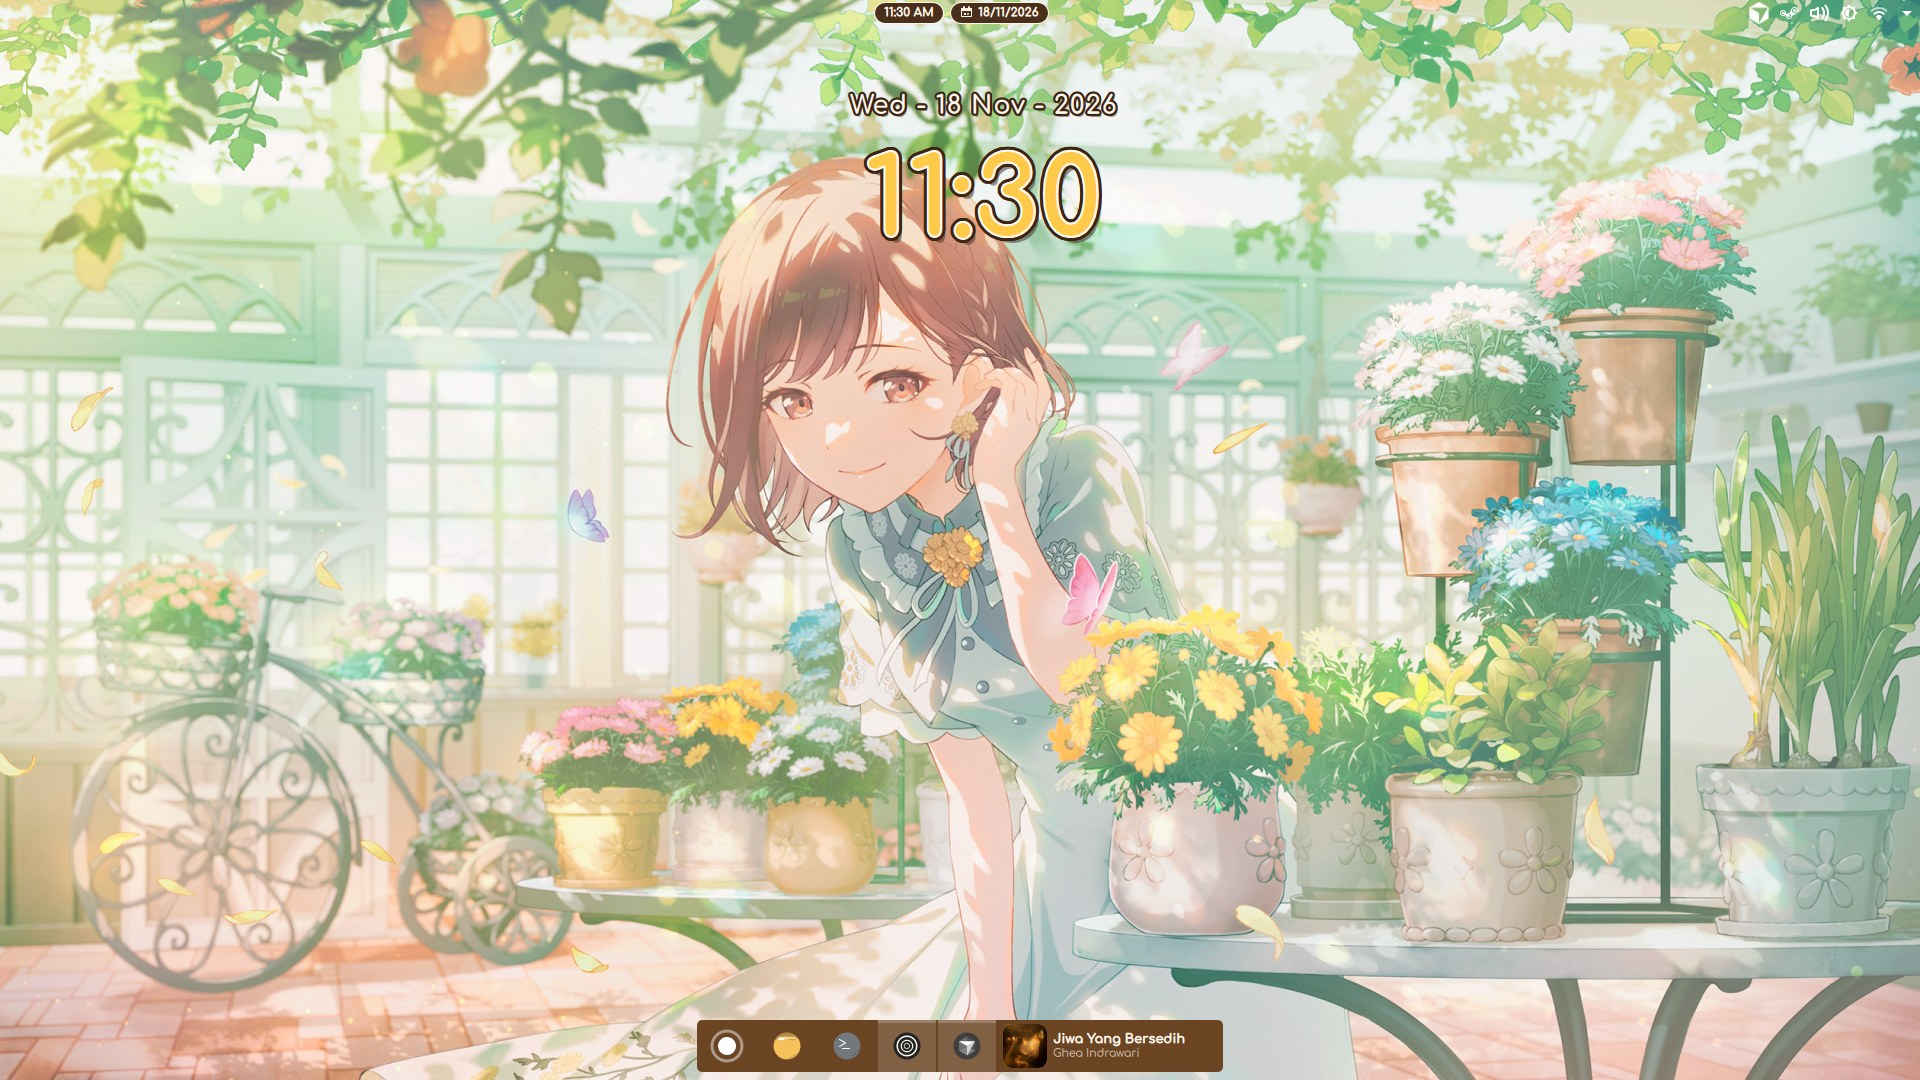
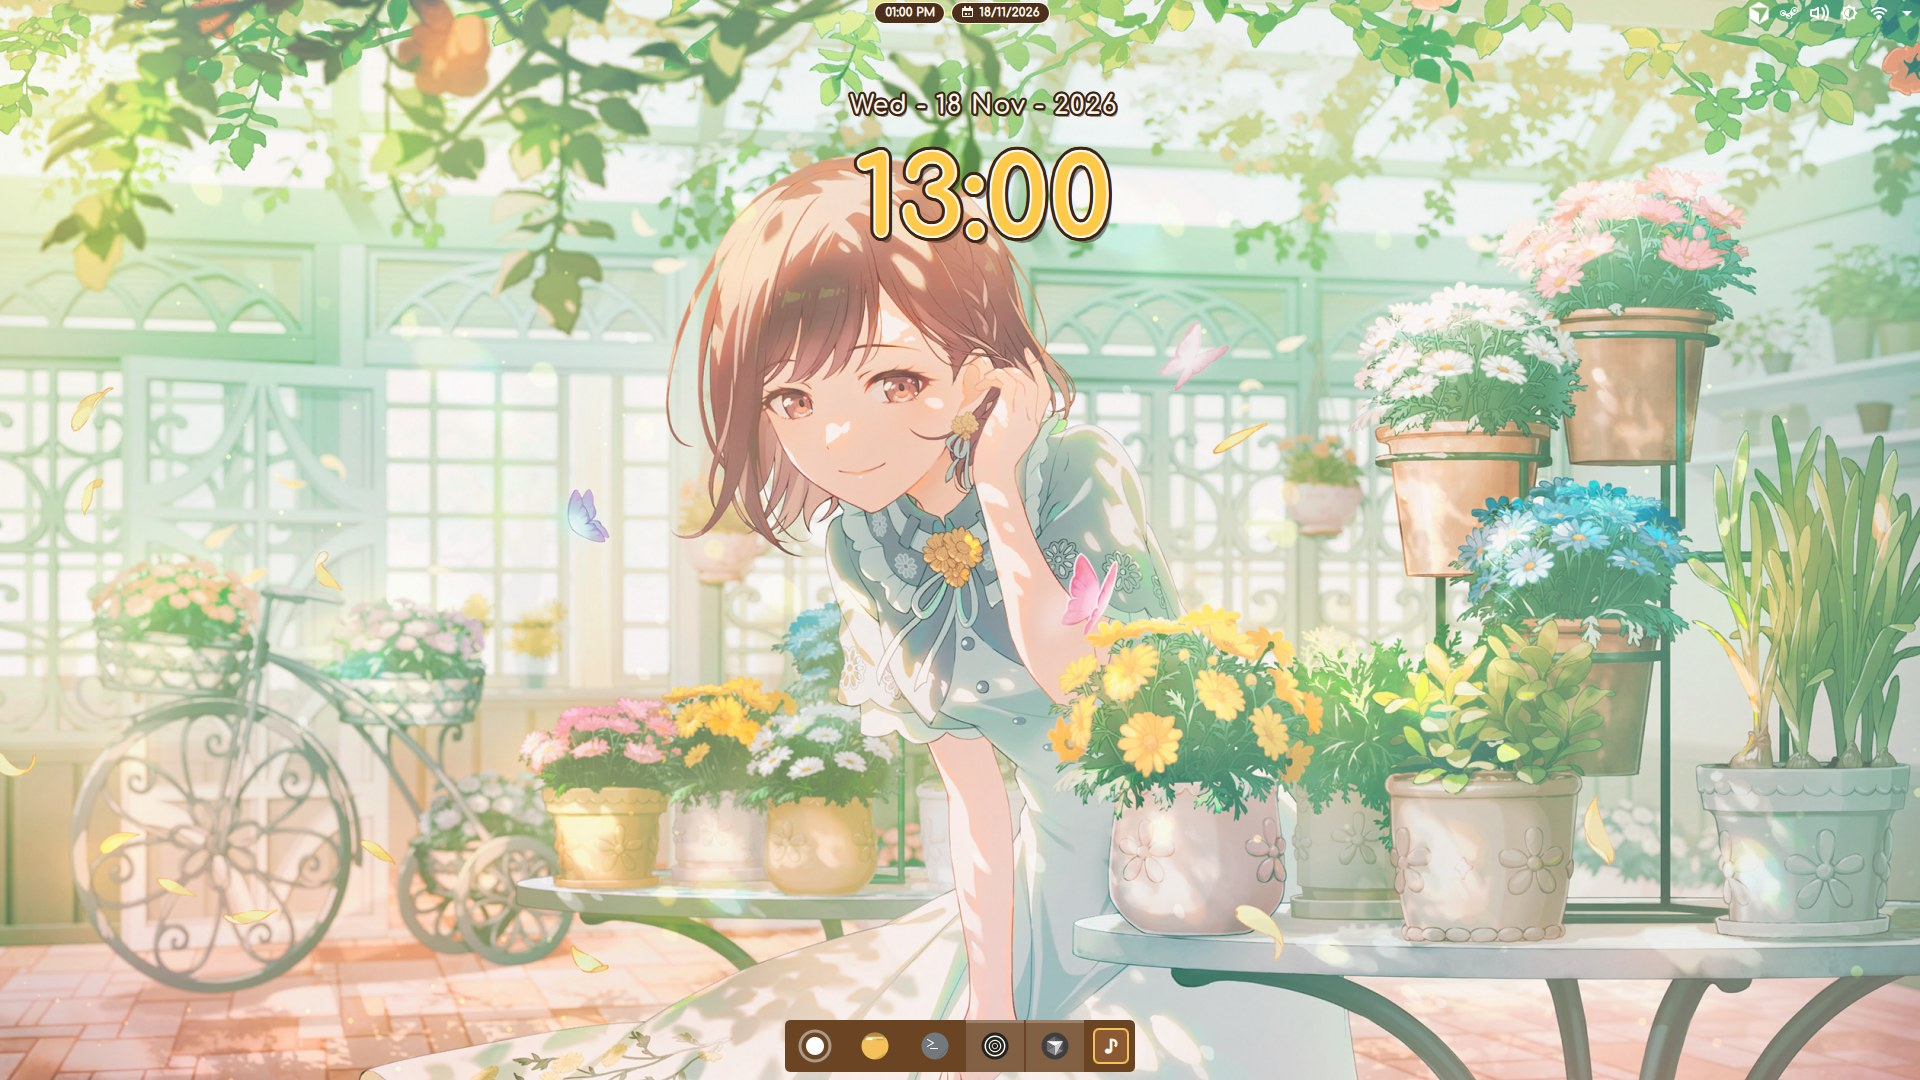
feat(cozy-ena): splash wallpaper + media dock polish
Splash loads local wallpaper copy; media art sized
with tight dock layout; apply-splash helper.

Changed region(s): [[0.4375, 0.1222, 0.5938, 0.2444], [0.3438, 0.9472, 0.6562, 1.0], [0.4688, 0.0, 0.5625, 0.0306]]

diff --git a/cozy-ena/plasmoids/org.cozyena.mediadock/contents/ui/main.qml b/cozy-ena/plasmoids/org.cozyena.mediadock/contents/ui/main.qml
@@ -40,17 +40,15 @@ PlasmoidItem {
 
     compactRepresentation: Item {
         id: compact
-        // Match ~dock icon size on 52px panel
-        readonly property int iconSize: 44
+        // Slightly under panel thickness so art doesn't kiss dock edge
+        readonly property int artPx: 36
 
         Layout.fillHeight: true
         Layout.fillWidth: false
         Layout.alignment: Qt.AlignVCenter
-        Layout.minimumWidth: root.hasTrack ? (compact.iconSize + 12 + Kirigami.Units.gridUnit * 8) : (compact.iconSize + 8)
-        Layout.preferredWidth: row.width + 8
-        Layout.maximumWidth: Kirigami.Units.gridUnit * 18
-        Layout.minimumHeight: compact.iconSize + 8
-        Layout.preferredHeight: compact.iconSize + 8
+        Layout.minimumWidth: row.implicitWidth + 6
+        Layout.preferredWidth: row.implicitWidth + 6
+        Layout.maximumWidth: row.implicitWidth + 6
 
         MouseArea {
             anchors.fill: parent
@@ -72,23 +70,21 @@ PlasmoidItem {
             }
         }
 
-        // Plain Row — Layout was squashing the art into a tall oval
         Row {
             id: row
             anchors.verticalCenter: parent.verticalCenter
             anchors.left: parent.left
-            anchors.leftMargin: 2
+            anchors.leftMargin: 4
             spacing: 6
-            height: compact.iconSize
 
-            // Rounded art with antialiased corners (no jagged edges)
             Rectangle {
                 id: badge
-                width: compact.iconSize
-                height: compact.iconSize
-                radius: 8
+                width: compact.artPx
+                height: compact.artPx
+                anchors.verticalCenter: parent.verticalCenter
+                radius: 6
                 color: root.brownSoft
-                border.width: root.isPlaying ? 2 : 1.5
+                border.width: badge.showArt ? 0 : 1.5
                 border.color: root.gold
                 readonly property bool showArt: root.hasTrack && root.artUrl.length > 0
                     && artImg.status === Image.Ready
@@ -102,7 +98,7 @@ PlasmoidItem {
                     mipmap: true
                     smooth: true
                     visible: false
-                    sourceSize: Qt.size(compact.iconSize * 2, compact.iconSize * 2)
+                    sourceSize: Qt.size(72, 72)
                 }
 
                 OpacityMask {
@@ -110,9 +106,9 @@ PlasmoidItem {
                     visible: badge.showArt
                     source: artImg
                     maskSource: Rectangle {
-                        width: compact.iconSize
-                        height: compact.iconSize
-                        radius: 8
+                        width: compact.artPx
+                        height: compact.artPx
+                        radius: 6
                         color: "#ffffff"
                         antialiasing: true
                     }
@@ -124,7 +120,7 @@ PlasmoidItem {
                     visible: !badge.showArt
                     text: "♪"
                     color: root.cream
-                    font.pixelSize: Math.round(compact.iconSize * 0.5)
+                    font.pixelSize: 18
                     font.bold: true
                 }
             }
@@ -133,25 +129,26 @@ PlasmoidItem {
                 visible: root.hasTrack
                 anchors.verticalCenter: parent.verticalCenter
                 spacing: 0
-                width: Math.min(Kirigami.Units.gridUnit * 10, 160)
 
                 PlasmaComponents3.Label {
-                    width: parent.width
+                    id: trackLabel
                     text: root.track
                     color: root.cream
                     elide: Text.ElideRight
-                    font.pixelSize: Math.max(10, Math.round(compact.iconSize * 0.30))
+                    font.pixelSize: 12
                     font.bold: true
                     maximumLineCount: 1
+                    width: Math.min(implicitWidth, 160)
                 }
                 PlasmaComponents3.Label {
-                    width: parent.width
+                    id: artistLabel
                     text: root.artist
                     color: Qt.rgba(1, 0.973, 0.925, 0.7)
                     elide: Text.ElideRight
-                    font.pixelSize: Math.max(9, Math.round(compact.iconSize * 0.24))
+                    font.pixelSize: 11
                     maximumLineCount: 1
                     visible: root.artist.length > 0
+                    width: Math.min(implicitWidth, 160)
                 }
             }
         }

diff --git a/cozy-ena/look-and-feel/org.cozyena.desktop/contents/splash/Splash.qml b/cozy-ena/look-and-feel/org.cozyena.desktop/contents/splash/Splash.qml
@@ -1,0 +1,135 @@
+/*
+    Cozy Ena splash — wallpaper from images/background.jpg (installed by apply-splash.sh)
+    SPDX-License-Identifier: GPL-2.0-or-later
+*/
+
+import QtQuick
+import org.kde.kirigami as Kirigami
+
+Rectangle {
+    id: root
+    color: "#6B4423"
+
+    property int stage
+
+    onStageChanged: {
+        if (stage == 2) {
+            introAnimation.running = true
+        } else if (stage == 5) {
+            introAnimation.target = busyIndicator
+            introAnimation.from = 1
+            introAnimation.to = 0
+            introAnimation.running = true
+        }
+    }
+
+    // Wallpaper baked into theme by apply-splash.sh (ksplash can't rely on ~/ paths)
+    Image {
+        id: wallpaper
+        anchors.fill: parent
+        asynchronous: true
+        fillMode: Image.PreserveAspectCrop
+        source: "images/background.jpg"
+        visible: status === Image.Ready
+    }
+
+    // Soft brown veil — top clear for Ena, bottom darker for chrome
+    Rectangle {
+        anchors.fill: parent
+        gradient: Gradient {
+            GradientStop { position: 0.0; color: Qt.rgba(0.42, 0.27, 0.14, wallpaper.visible ? 0.12 : 1.0) }
+            GradientStop { position: 0.55; color: Qt.rgba(0.42, 0.27, 0.14, wallpaper.visible ? 0.18 : 1.0) }
+            GradientStop { position: 1.0; color: Qt.rgba(0.35, 0.22, 0.11, wallpaper.visible ? 0.55 : 1.0) }
+        }
+    }
+
+    Item {
+        id: content
+        anchors.fill: parent
+        opacity: 0
+
+        // Bottom chrome — leave center clear for Ena
+        Column {
+            id: bottomChrome
+            anchors.horizontalCenter: parent.horizontalCenter
+            anchors.bottom: parent.bottom
+            anchors.bottomMargin: parent.height * 0.10
+            spacing: Kirigami.Units.smallSpacing
+            width: parent.width
+
+            Item {
+                id: mark
+                anchors.horizontalCenter: parent.horizontalCenter
+                width: Kirigami.Units.gridUnit * 3.5
+                height: width
+
+                Rectangle {
+                    anchors.fill: parent
+                    radius: width / 2
+                    color: Qt.rgba(1, 0.973, 0.925, 0.12)
+                    border.width: 2
+                    border.color: "#F4C15A"
+                }
+                Text {
+                    anchors.centerIn: parent
+                    text: "♪"
+                    color: "#FFF8EC"
+                    style: Text.Outline
+                    styleColor: Qt.rgba(0.42, 0.27, 0.14, 0.55)
+                    font.pixelSize: Math.round(mark.width * 0.45)
+                    font.bold: true
+                }
+            }
+
+            Text {
+                id: title
+                anchors.horizontalCenter: parent.horizontalCenter
+                text: "Cozy Ena"
+                color: "#FFF8EC"
+                style: Text.Outline
+                styleColor: Qt.rgba(0.42, 0.27, 0.14, 0.65)
+                font.pixelSize: Math.round(Kirigami.Units.gridUnit * 1.6)
+                font.bold: true
+                Accessible.name: text
+                Accessible.role: Accessible.StaticText
+                textFormat: Text.PlainText
+            }
+
+            Text {
+                anchors.horizontalCenter: parent.horizontalCenter
+                text: "welcome home"
+                color: "#F4C15A"
+                style: Text.Outline
+                styleColor: Qt.rgba(0.42, 0.27, 0.14, 0.5)
+                font.pixelSize: Math.round(Kirigami.Units.gridUnit * 0.75)
+                textFormat: Text.PlainText
+            }
+
+            Image {
+                id: busyIndicator
+                anchors.horizontalCenter: parent.horizontalCenter
+                asynchronous: true
+                source: "images/busywidget.svgz"
+                sourceSize.height: Kirigami.Units.gridUnit * 2
+                sourceSize.width: Kirigami.Units.gridUnit * 2
+                RotationAnimator on rotation {
+                    from: 0
+                    to: 360
+                    duration: 2000
+                    loops: Animation.Infinite
+                    running: Kirigami.Units.longDuration > 1
+                }
+            }
+        }
+    }
+
+    OpacityAnimator {
+        id: introAnimation
+        running: false
+        target: content
+        from: 0
+        to: 1
+        duration: Kirigami.Units.veryLongDuration * 2
+        easing.type: Easing.InOutQuad
+    }
+}

diff --git a/cozy-ena/README.md b/cozy-ena/README.md
@@ -43,6 +43,7 @@ Backs up `kdeglobals` / `plasmarc` / appletsrc first → `cozy-ena/backups/`.
 |-------|-------------|
 | Plasma style `CozyEna` | `~/.local/share/plasma/desktoptheme/CozyEna` |
 | Big clock + panel clock + media dock plasmoids | `~/.local/share/plasma/plasmoids/org.cozyena.*` |
+| Splash screen `Cozy Ena` (`apply-splash.sh` copies your wallpaper in locally) | `~/.local/share/plasma/look-and-feel/org.cozyena.desktop` |
 | Lock screen QML (date above clock, octagon avatar) | `~/.local/share/plasma/shells/.../lockscreen/` |
 | Comfortaa | `~/.local/share/fonts/Comfortaa` |
 | Usagi cursors | `~/.local/share/icons/Usagi` |
@@ -70,6 +71,7 @@ Backs up `kdeglobals` / `plasmarc` / appletsrc first → `cozy-ena/backups/`.
 ./scripts/apply-plasma-theme.sh
 ./scripts/apply-panels.sh
 ./scripts/apply-mediadock.sh
+./scripts/apply-splash.sh
 ./scripts/apply-lockscreen.sh
 ./scripts/apply-notify.sh
 ./scripts/apply-kwin-notify-lower.sh
